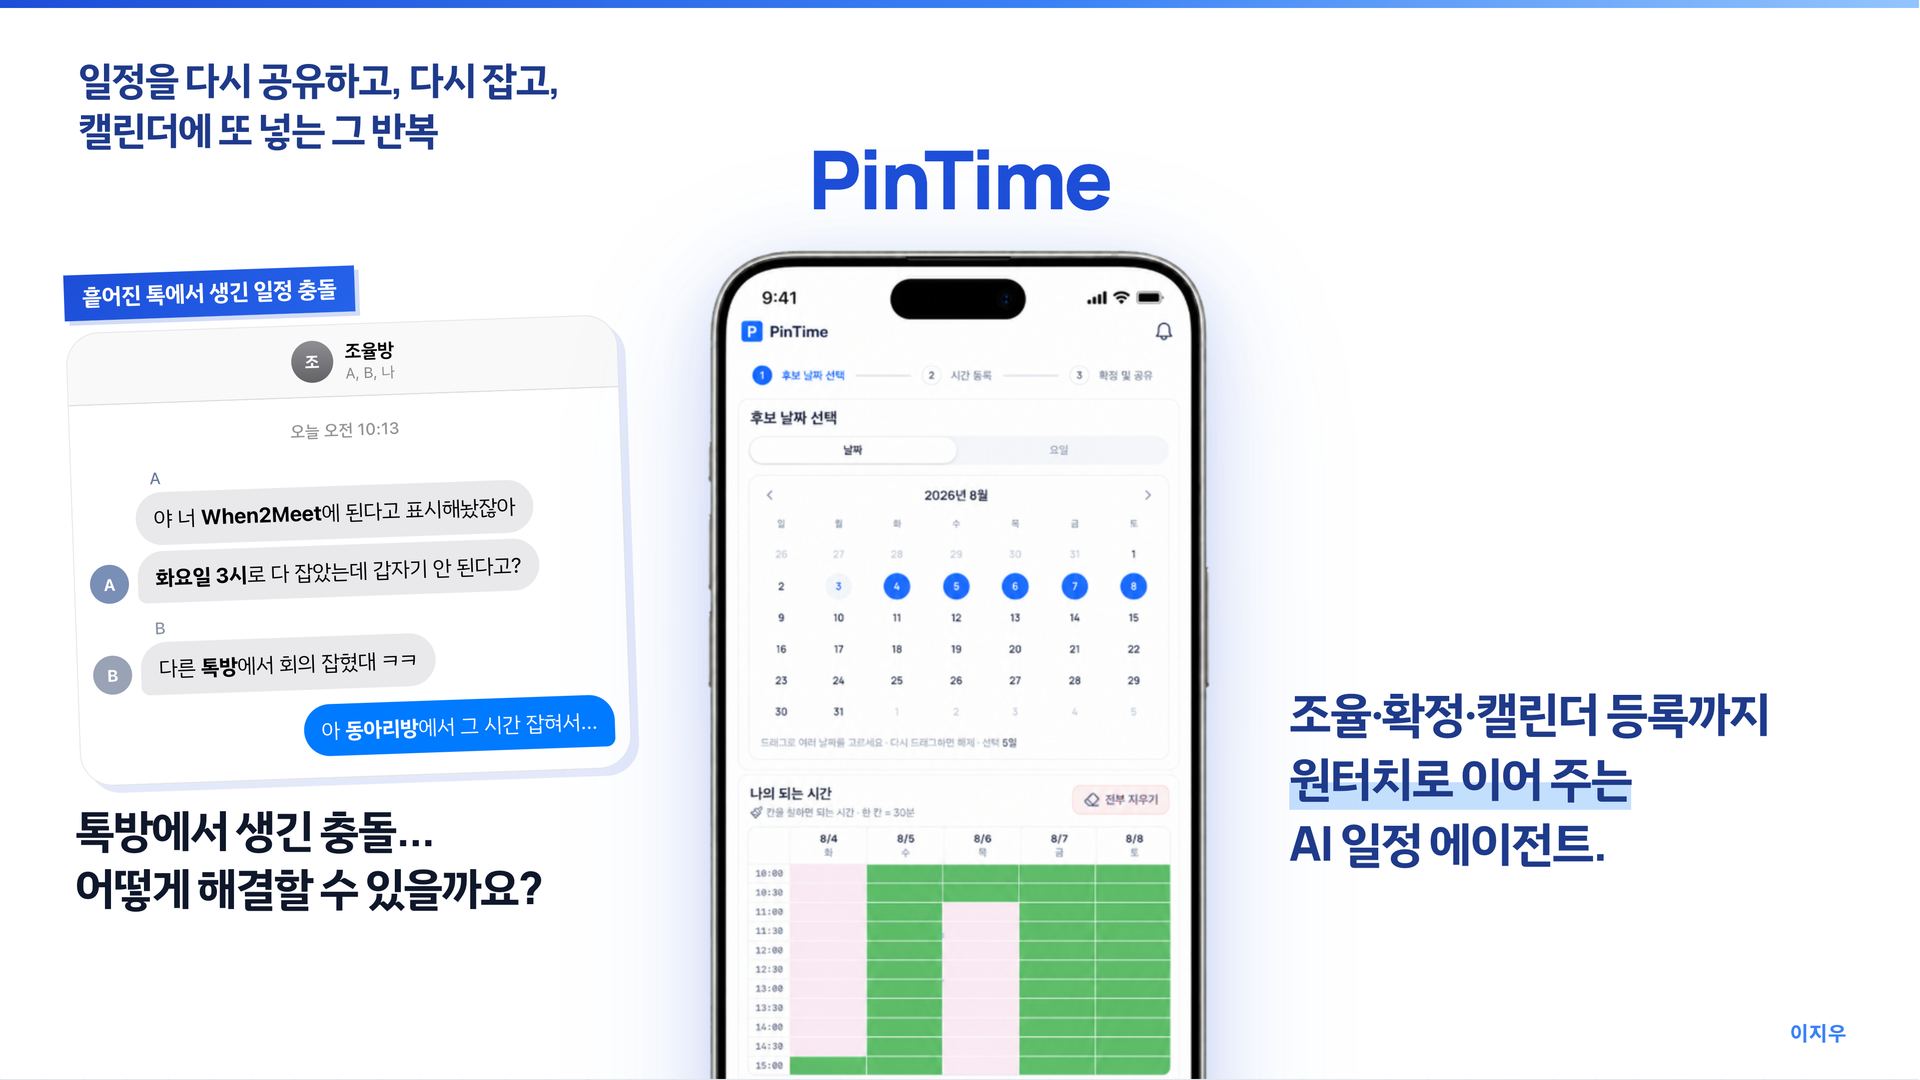
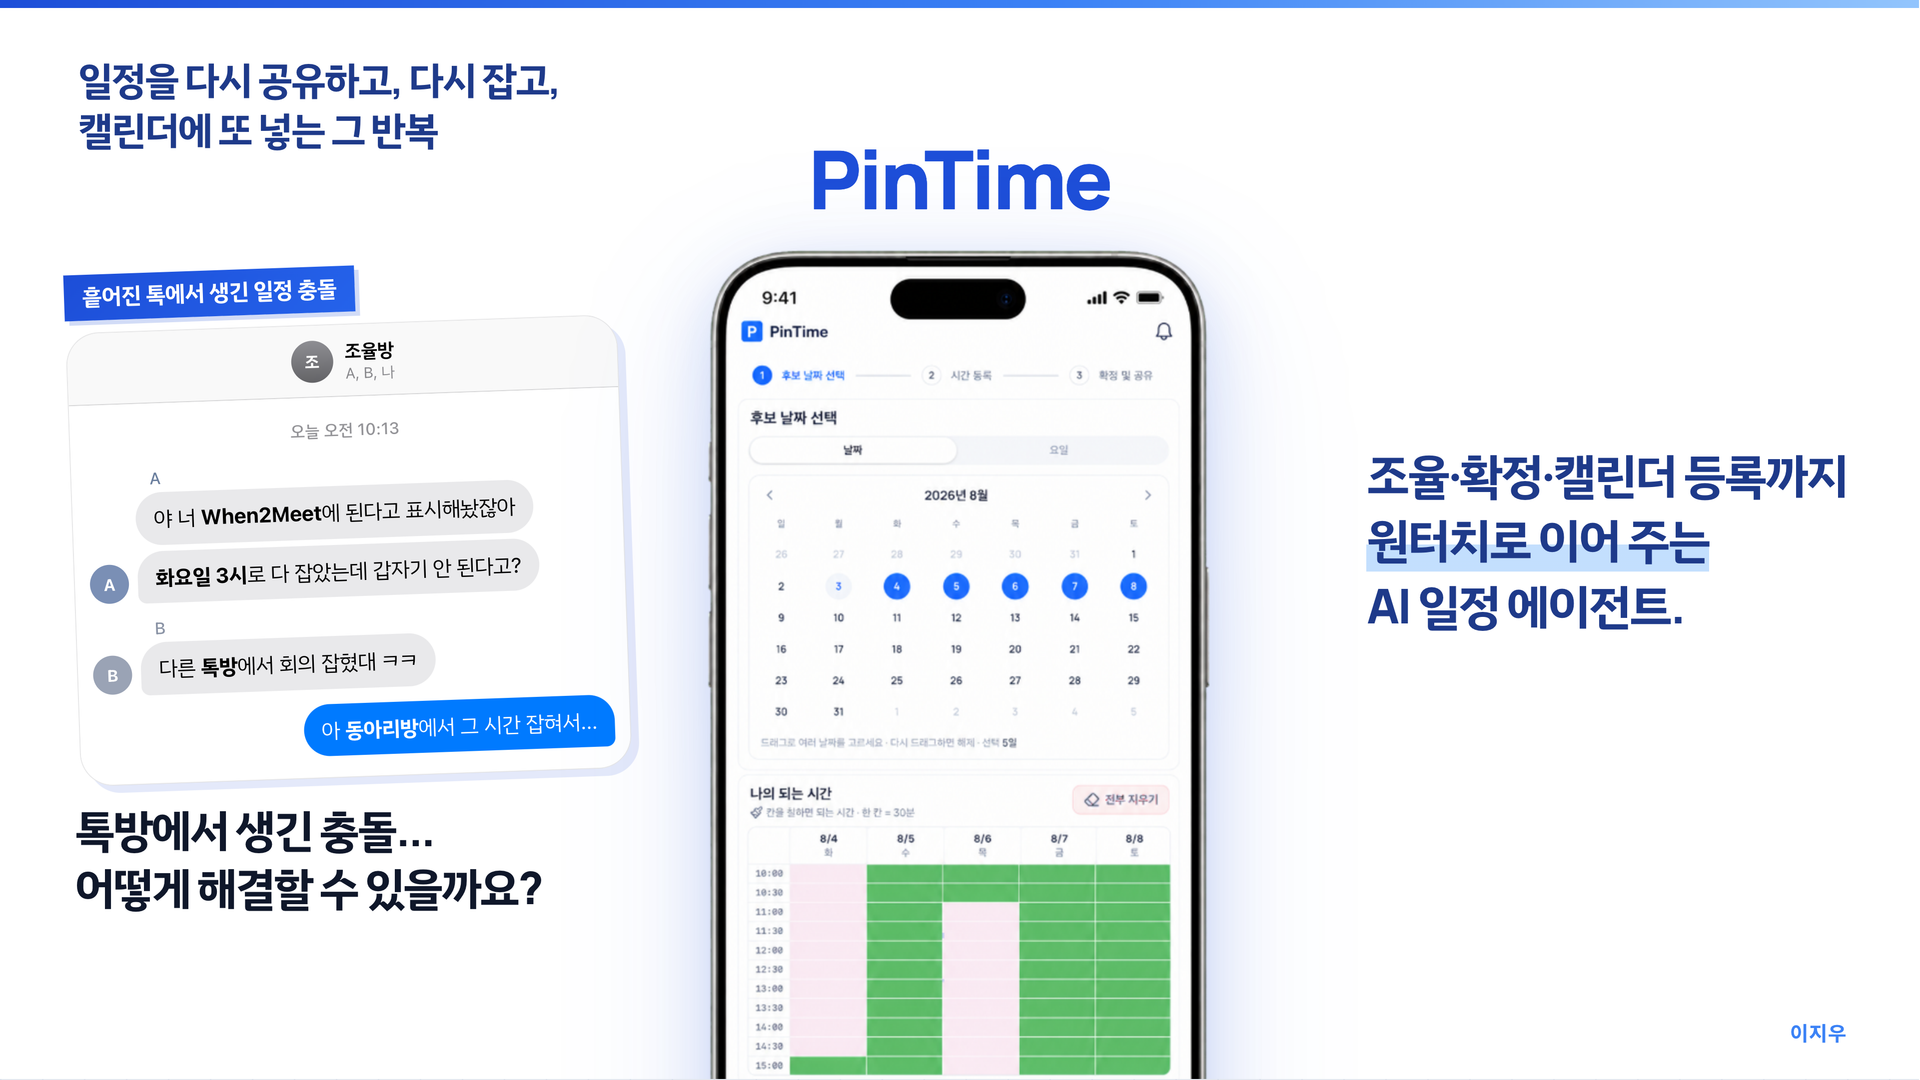
Center cover tagline on the slide vertical midpoint.

Changed region(s): [[0.6875, 0.3972, 0.9688, 0.5806], [0.6562, 0.6417, 0.9375, 0.825]]

diff --git a/public/pitch.html b/public/pitch.html
@@ -1497,6 +1497,10 @@
       }
 
       .cover-tagline {
+        position: absolute;
+        top: 50%;
+        right: 0.5in;
+        transform: translateY(-50%);
         margin: 0;
         max-width: 5.4in;
         font-family: Manrope, 'IBM Plex Sans KR', sans-serif;
@@ -1505,9 +1509,7 @@
         letter-spacing: -0.04em;
         line-height: 1.36;
         color: #1e3a8a;
-        align-self: center;
-        justify-self: start;
-        transform: translate(-4px, 125px);
+        z-index: 2;
         word-break: keep-all;
         overflow-wrap: normal;
       }
@@ -2535,13 +2537,13 @@
                 />
               </div>
             </div>
-
-            <p class="cover-tagline">
-              <span class="line">조율·확정·캘린더 등록까지</span><br />
-              <span class="line ai">원터치로 이어 주는</span><br />
-              <span class="line">AI 일정 에이전트.</span>
-            </p>
           </div>
+
+          <p class="cover-tagline">
+            <span class="line">조율·확정·캘린더 등록까지</span><br />
+            <span class="line ai">원터치로 이어 주는</span><br />
+            <span class="line">AI 일정 에이전트.</span>
+          </p>
 
           <div class="cover-foot">
             <div class="name">이지우</div>
